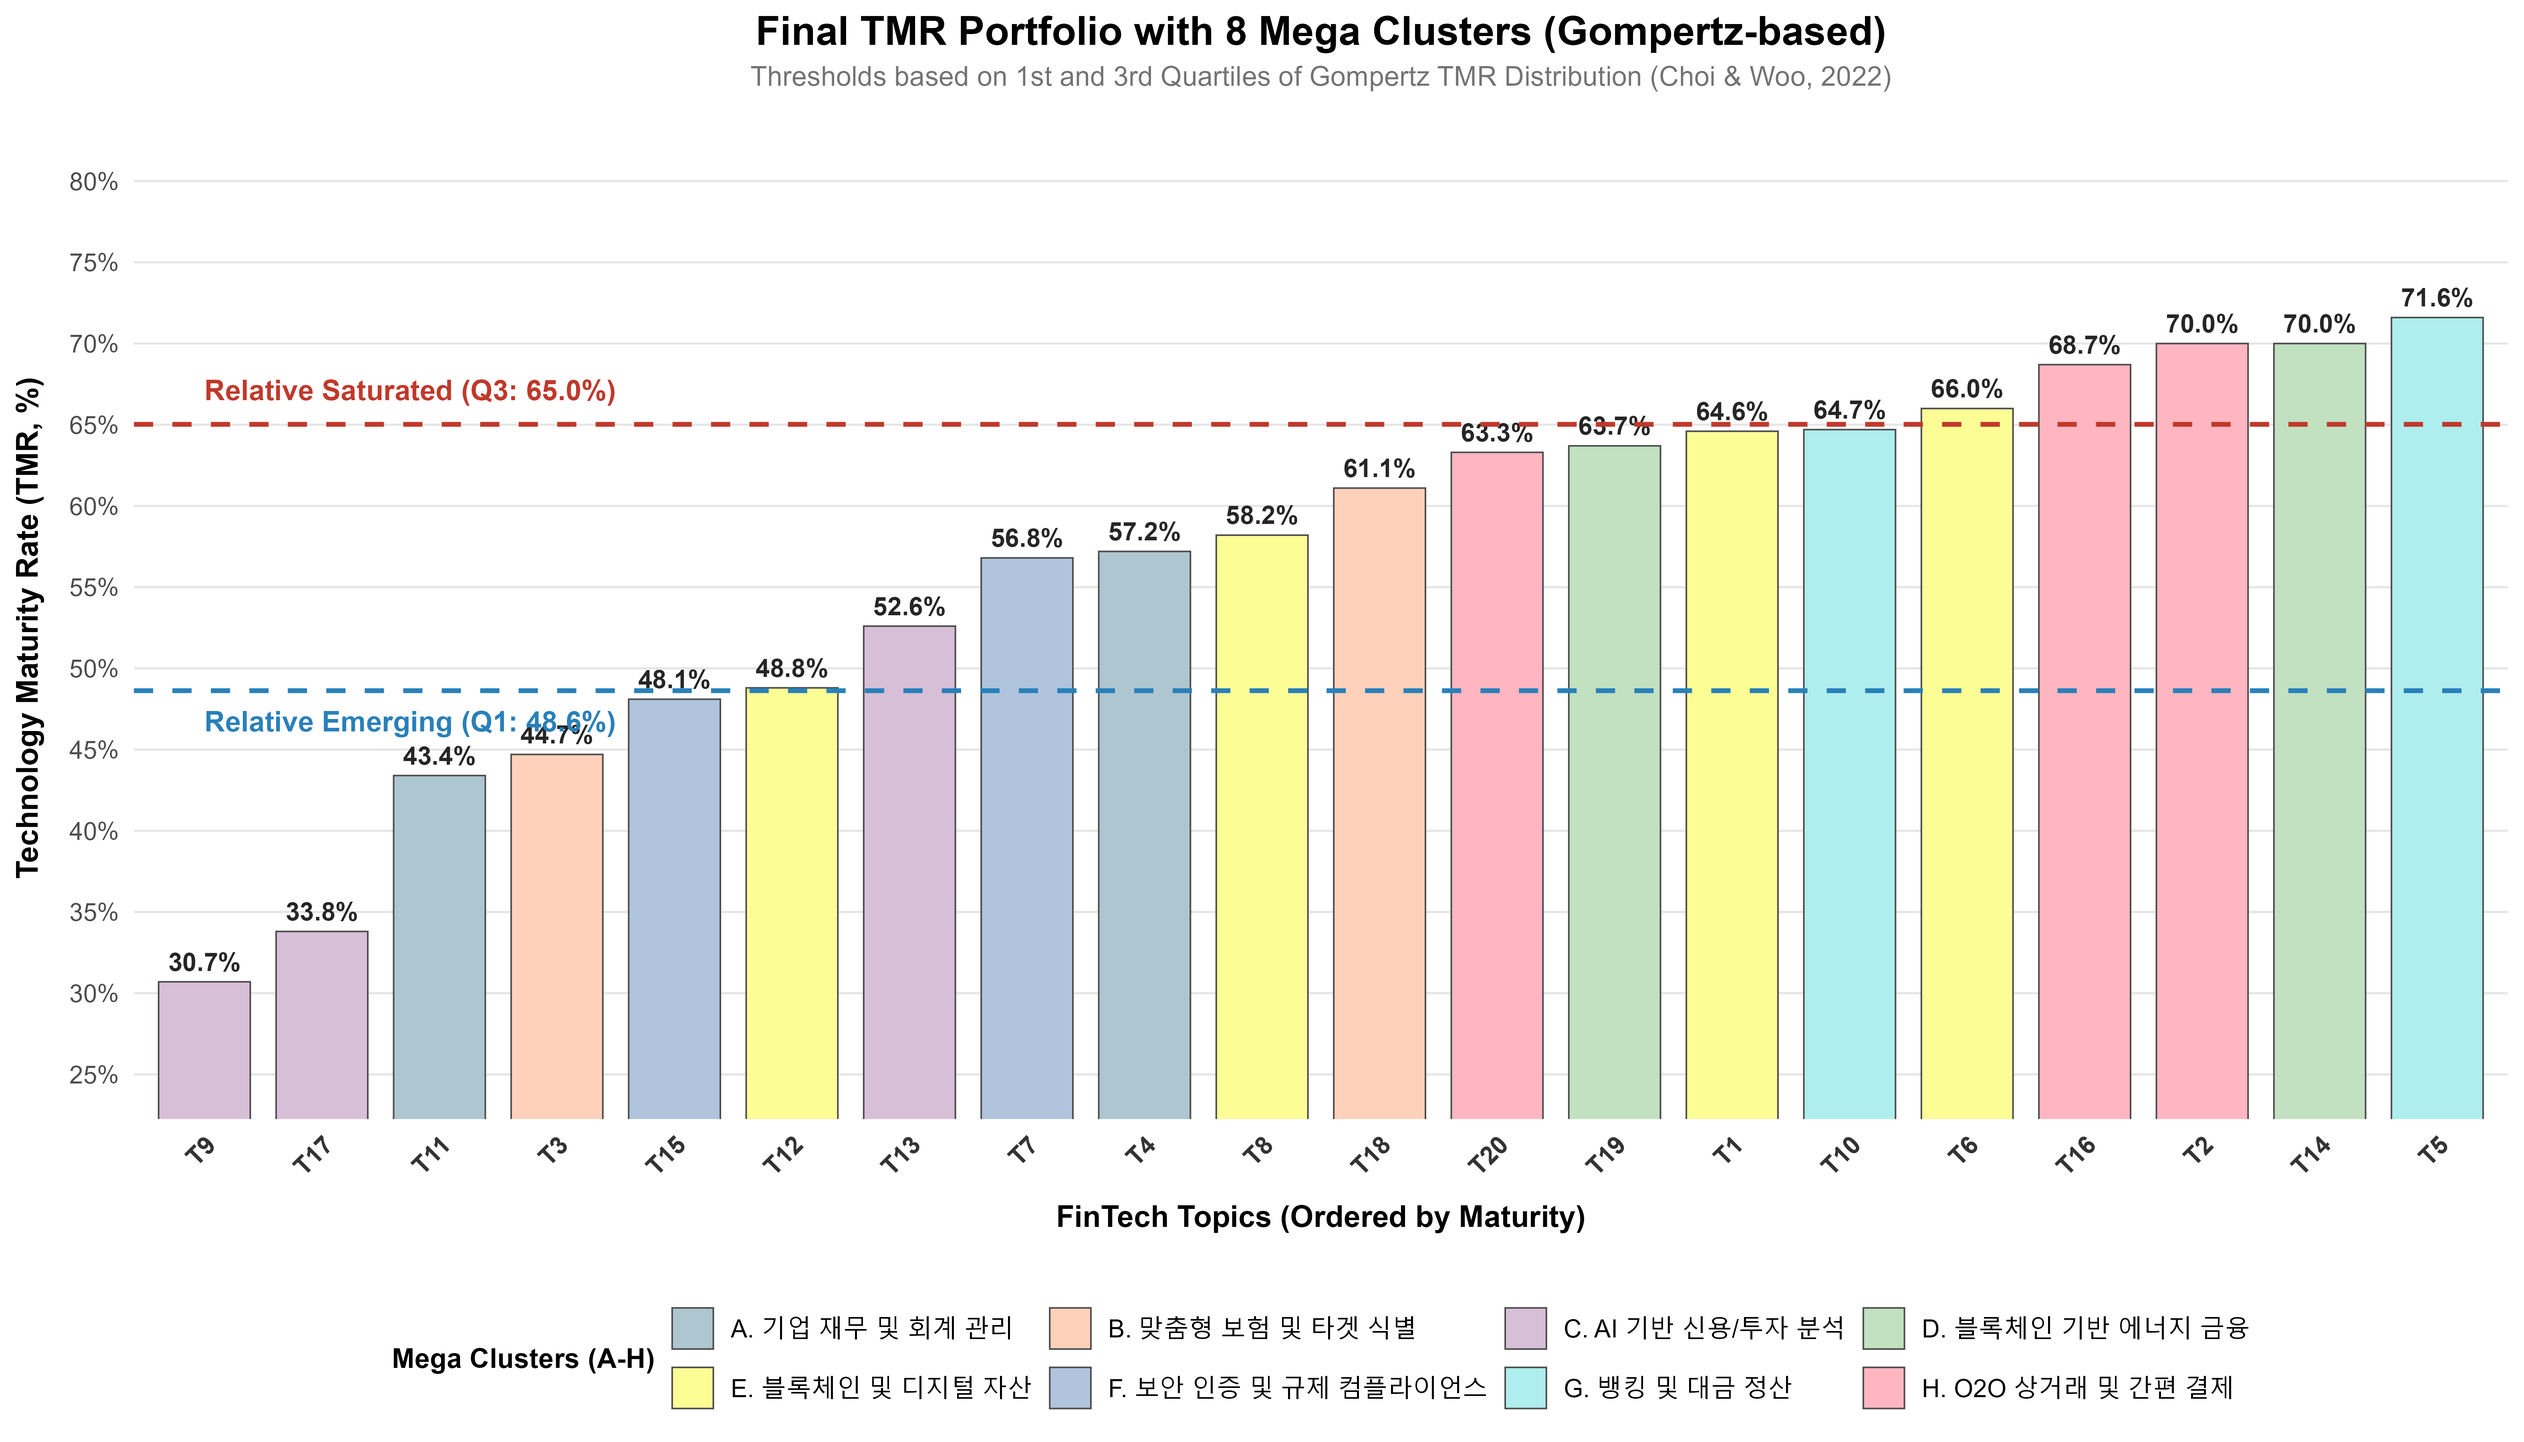
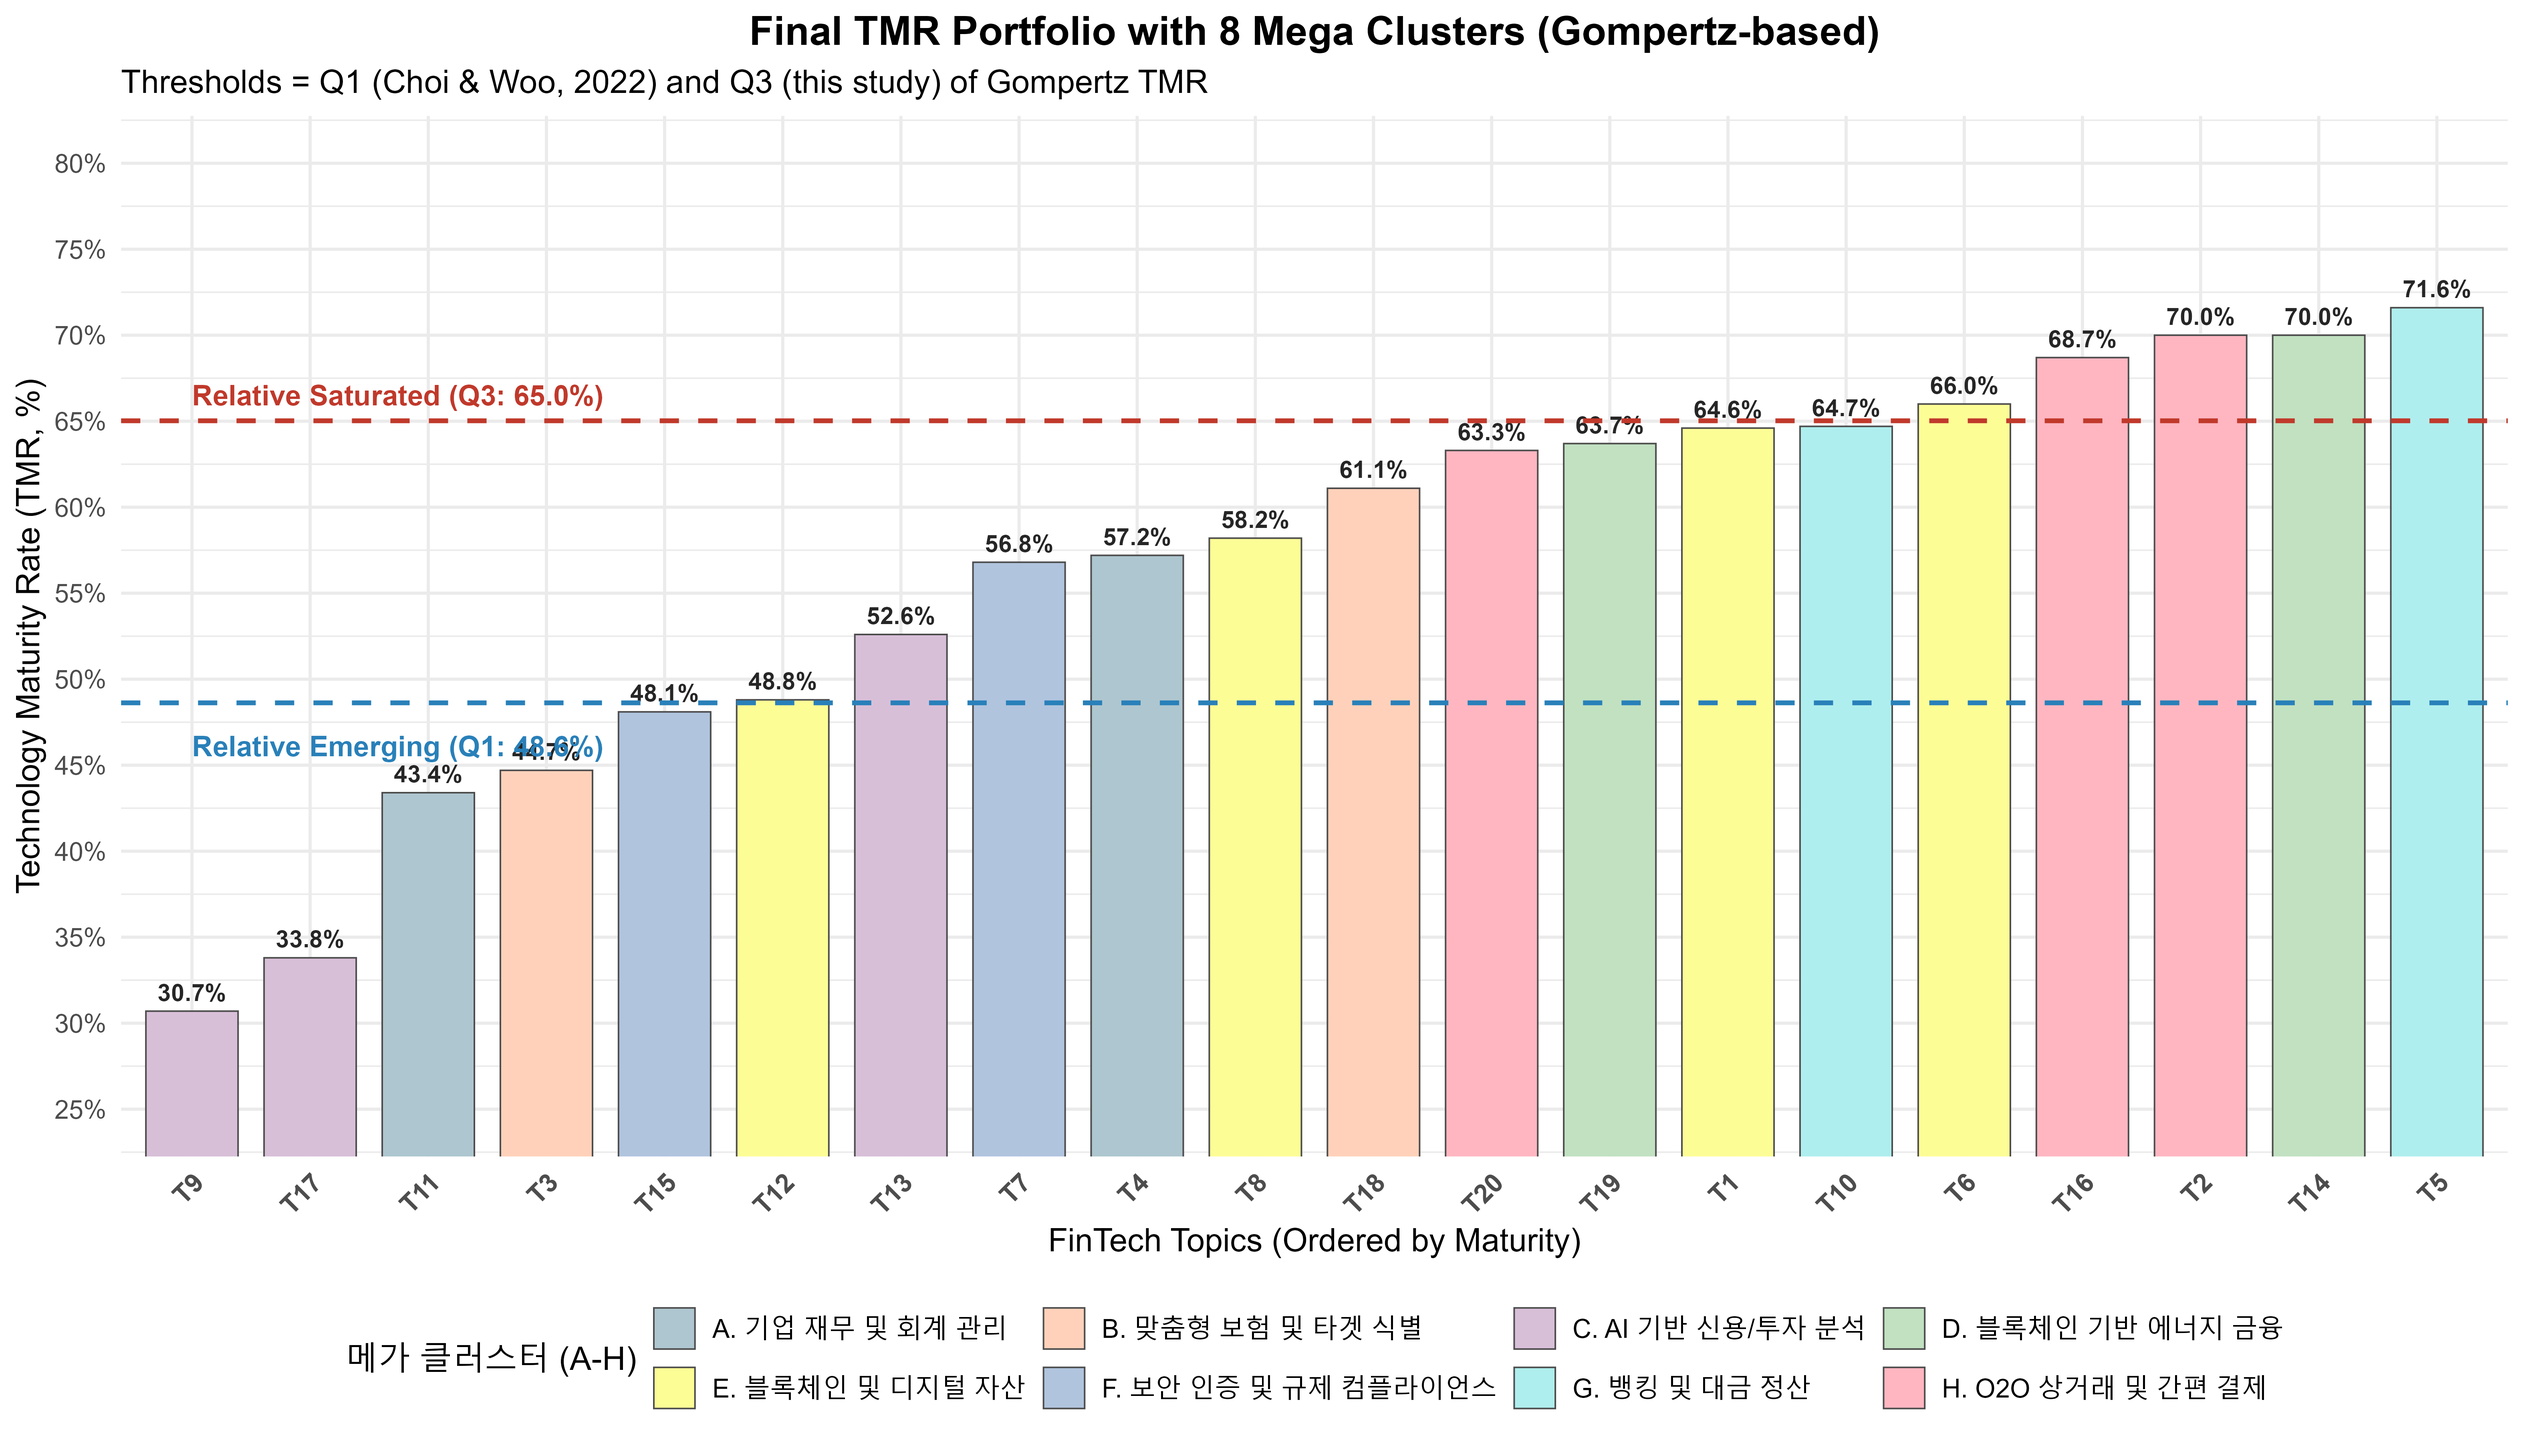
Fix figure 4-10 subtitle: Q1 from Choi & Woo (2022), Q3 is this study's extension

diff --git a/stages/03_최종제출_준비/2026-10-30_v1원고완성_내역.md b/stages/03_최종제출_준비/2026-10-30_v1원고완성_내역.md
@@ -203,3 +203,7 @@
 - 표 4-1 T18·T19 키워드를 FREX 어간(부록 A-5)으로 교체
 - 표 4-3: 성장 모멘텀을 OLS → B-Spline, TMR을 Logistic → Gompertz 산출값으로 교체, 사분면 갱신(T12 Q2→Q3, T19 Q3→Q2), 사분면·모멘텀 순으로 행 재정렬
 - 부록 A-6 토픽 라벨을 영문(예: T15 Realtime Settle)에서 본문과 같은 한글 라벨로 교체
+
+## 그림 4-10 부제 정정 (2026-10-31)
+
+- 그림 4-10 이미지 부제 'Thresholds = Q1/Q3 of Gompertz TMR (Choi & Woo, 2022)'를 'Q1 (Choi & Woo, 2022) and Q3 (this study)'로 정정. 본문(Q3는 본 연구의 확장)과 맞춤. 같은 코드(07_Gompertz_TMR.R 6) 블록)로 산출 CSV에서 다시 그림. 07 코드 부제도 같이 정정.
